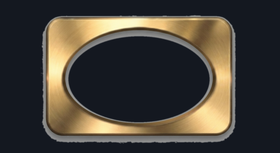
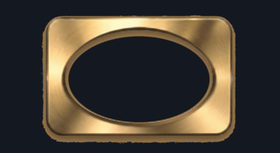
Warmler gold fix, and more anthill/birds polish
Warmler: the gold finish had a botched grey shadow layer around the
inner oval and both bottom corners (should have been warm-toned like
every other finish) — recoloured just those mismatched pixels to
match gold's own hue, on both the plate and its swatch icon.

Anthill: twig bumped bigger again, and ants that walk up to it now
sometimes turn and follow its actual length (cut end to tip) instead
of only ever climbing straight over or going around.

Birds: crow feet now land exactly on the wire instead of a hair above
it, and removed a second watermark that was sitting on the base of
the right-hand telephone pole in the background photo.

diff --git a/ant/index.html b/ant/index.html
@@ -266,7 +266,7 @@
   // the icons are the only way in or out ----------
   const PEBBLE_R_MIN = 8, PEBBLE_R_MAX = 22;
   const LEAF_R_MIN = 15, LEAF_R_MAX = 45;
-  const TWIG_R_MIN = 32, TWIG_R_MAX = 96; // twice the footprint of the original size
+  const TWIG_R_MIN = 38, TWIG_R_MAX = 116; // twice the footprint of the original size, plus a further bump
   let stones = [];
   let pebbleObstacle = null;
   let leafObstacle = null;
@@ -378,6 +378,22 @@
     return stones.some(s => s.type !== 'leaf' && Math.hypot(s.x-x,s.y-y) < s.r);
   }
 
+  // the twig's own woody stem, cut end to tip, measured directly on the
+  // source photo (in its native 959x556 pixel space, centred on 479.5,278)
+  // — this is the line an ant walking along the twig actually follows,
+  // not just the circular collision footprint used for blockedAt.
+  const TWIG_CUT_END = { x: 30, y: 45 };
+  const TWIG_TIP = { x: 630, y: 440 };
+  function twigEndpoints(s){
+    const scale = (s.r*2.8) / 959;
+    const rot = s.rot || 0, cos = Math.cos(rot), sin = Math.sin(rot);
+    function toWorld(p){
+      const ox = (p.x - 479.5) * scale, oy = (p.y - 278) * scale;
+      return { x: s.x + ox*cos - oy*sin, y: s.y + ox*sin + oy*cos };
+    }
+    return [toWorld(TWIG_CUT_END), toWorld(TWIG_TIP)];
+  }
+
   // is (x,y) currently under the leaf's raised footprint? Matches the same
   // rotated box the leaf photo is drawn into (see render()), inset a little
   // so ants vanish/reappear at roughly the leaf's actual silhouette rather
@@ -423,6 +439,7 @@
       wobble: Math.random()*Math.PI*2,
       straightTimer: 30 + Math.random()*60,
       climbing: null, // the obstacle currently being crossed straight over, if any
+      onTwig: null, // walking along the twig's own length toward this {x,y}, if so
     };
   }
   function syncAntCount(){
@@ -435,6 +452,20 @@
   function stepAnt(a, dt){
     const speed = 1.3 * speedMult * dt;
     a.wobble += dt*0.15;
+
+    if (a.onTwig){
+      // walking the twig's own length rather than crossing straight over it
+      // — heading is set once, toward whichever end continues roughly the
+      // direction the ant was already headed, and held until it arrives
+      const dx = a.onTwig.x-a.x, dy = a.onTwig.y-a.y;
+      if (Math.hypot(dx,dy) < 4){ a.onTwig = null; }
+      else {
+        a.heading = Math.atan2(dy,dx);
+        a.x = Math.max(4, Math.min(W-4, a.x + Math.cos(a.heading)*speed));
+        a.y = Math.max(4, Math.min(H-4, a.y + Math.sin(a.heading)*speed));
+      }
+      return;
+    }
 
     if (a.climbing){
       // already committed to crossing a pebble or twig straight over rather
@@ -491,15 +522,26 @@
 
     // obstacle disruption: if the step ahead is blocked, either climb
     // straight over it (a real ant crossing a low pebble or twig, not
-    // every single one detouring around) or fall back to a weighted random
-    // alternate direction
+    // every single one detouring around), or — for the twig specifically —
+    // turn and walk along its own length like a real ant using a fallen
+    // branch as a path, or fall back to a weighted random alternate direction
     let nx = a.x + Math.cos(a.heading)*speed;
     let ny = a.y + Math.sin(a.heading)*speed + Math.sin(a.wobble)*0.3;
     if (blockedAt(nx,ny)){
       const obstacle = stones.find(s => s.type !== 'leaf' && Math.hypot(s.x-nx,s.y-ny) < s.r);
-      if (obstacle && Math.random() < 0.3){
-        a.climbing = obstacle;
-        return;
+      if (obstacle){
+        const roll = Math.random();
+        if (obstacle.type === 'twig' && roll < 0.35){
+          const [p0, p1] = twigEndpoints(obstacle);
+          const d0 = Math.cos(a.heading)*(p0.x-a.x) + Math.sin(a.heading)*(p0.y-a.y);
+          const d1 = Math.cos(a.heading)*(p1.x-a.x) + Math.sin(a.heading)*(p1.y-a.y);
+          a.onTwig = d1 > d0 ? p1 : p0;
+          return;
+        }
+        if (roll < (obstacle.type === 'twig' ? 0.65 : 0.3)){
+          a.climbing = obstacle;
+          return;
+        }
       }
       const choices = [-1.1,-0.6,0.6,1.1];
       a.heading += choices[Math.floor(Math.random()*choices.length)];

diff --git a/birds/index.html b/birds/index.html
@@ -233,12 +233,12 @@
     sprite('crow-fly-8.png',261,277,185,165,1),
   ];
   const CROW_LAND_APPROACH=sprite('crow-land-approach.png',268,262,195,135,1);
-  const CROW_TOUCHDOWN=sprite('crow-touchdown.png',292,269,172,236,1,{bandY:188,halfW:32,cutY:224,feather:4});
+  const CROW_TOUCHDOWN=sprite('crow-touchdown.png',292,269,172,236,1,{bandY:188,halfW:32,cutY:237,feather:4});
   const CROW_PERCH_VARIANTS=[
-    sprite('crow-perch.png',217,239,103,224,1,{bandY:150,halfW:38,cutY:200,feather:4}),
-    sprite('crow-perch-alt.png',234,222,112.5,209,1,{bandY:148,halfW:42,cutY:195,feather:4}),
-    sprite('crow-perch-back.png',232,218,110.5,205,1,{bandY:130,halfW:45,cutY:190,feather:4}),
-    sprite('crow-perch-sleep.png',236,209,113.5,197,1,{bandY:138,halfW:42,cutY:182,feather:4}),
+    sprite('crow-perch.png',217,239,103,224,1,{bandY:150,halfW:38,cutY:225,feather:4}),
+    sprite('crow-perch-alt.png',234,222,112.5,209,1,{bandY:148,halfW:42,cutY:210,feather:4}),
+    sprite('crow-perch-back.png',232,218,110.5,205,1,{bandY:130,halfW:45,cutY:206,feather:4}),
+    sprite('crow-perch-sleep.png',236,209,113.5,197,1,{bandY:138,halfW:42,cutY:198,feather:4}),
   ];
   const CROW_SCALE=0.17;   // crows read as a noticeably bigger bird than sparrows, tuned by eye
 
